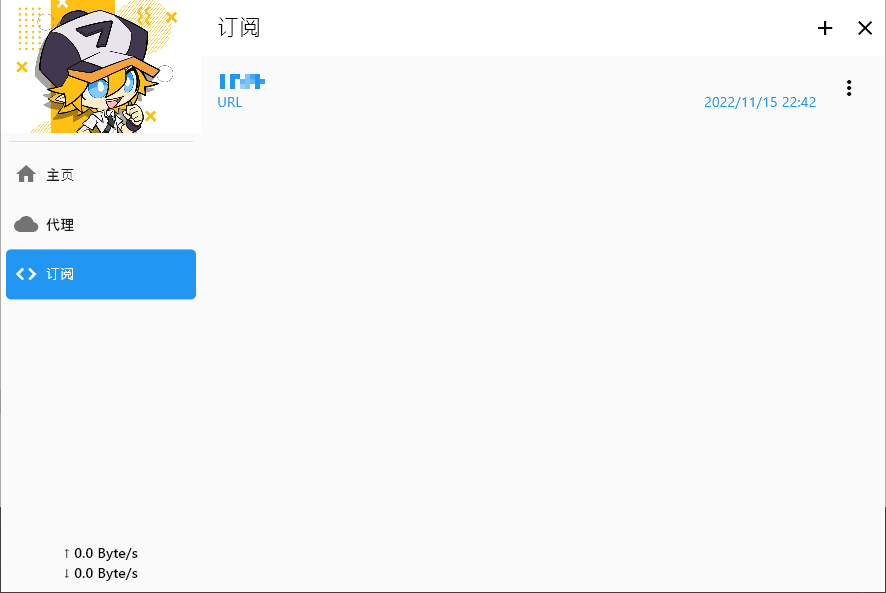
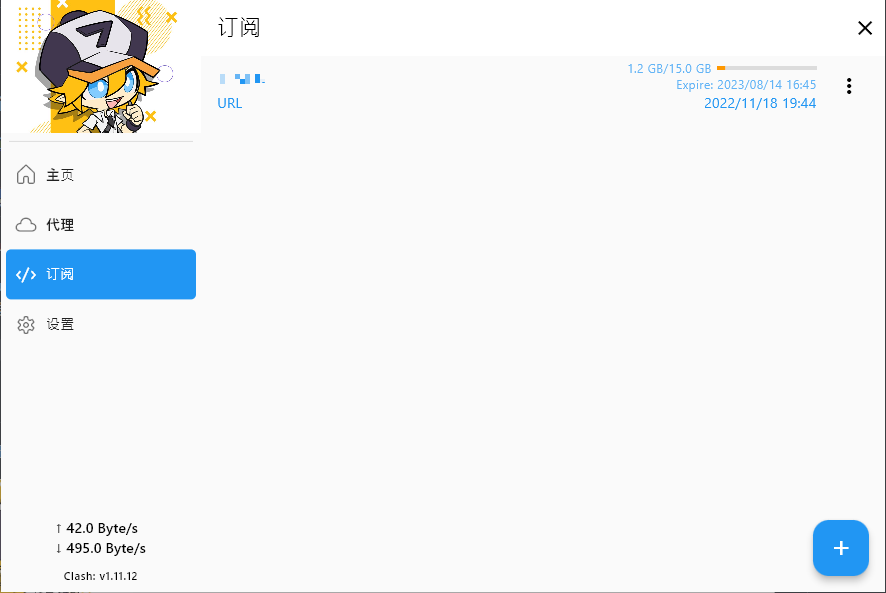
完善下文档

diff --git a/docs/README.md b/docs/README.md
@@ -4,11 +4,12 @@
 
 ### 下载
 
-当前下载页面都只提供了 64 位的安装包[releases](https://github.com/mapleafgo/clash-for-flutter/releases)，由于当前是我自己手动在各个平台打包，所以做不到每个版本都提供的了安装包
+当前下载页面都只提供了 64 位的安装包[releases](https://github.com/mapleafgo/clash-for-flutter/releases)
+，由于当前是我自己手动在各个平台打包，所以做不到每个版本都提供的了安装包
 
 ~~- Linux:~~
 
-  ~~linux 安装包目前打包的为`appimage`的，这种包各个发行版都能直接使用~~
+~~linux 安装包目前打包的为`appimage`的，这种包各个发行版都能直接使用~~
 
 - Windows:
 
@@ -16,7 +17,7 @@
 
 ~~- MacOS:~~
 
-  ~~macos 提供的是`dmg`包~~
+~~macos 提供的是`dmg`包~~
 
 ### 开始使用
 
@@ -26,9 +27,10 @@
 
   订阅页可以说是一切的源头，因为所有的代理节点地址都得通过订阅获取。
 
-  ![profile](./images/profile_page.png)
+  ![profile_page](./images/profile_page.png)
 
-  这是已有订阅的界面，**在没有订阅或未选择订阅时是无法开启代理的**，添加订阅只需点击右下角的`+`按钮。在弹出的窗口中输入订阅地址(当前仅支持联网订阅)
+  这是已有订阅的界面，**在没有订阅或未选择订阅时是无法开启代理的**，添加订阅只需点击右下角的`+`
+  按钮。在弹出的窗口中输入订阅地址或选择本地文件
 
   > 需要说明的是，当前**暂时不未支持自动更新订阅**，需手动在此页更新订阅
 
@@ -42,10 +44,49 @@
 
 - #### 切换代理节点
 
-  **在开启代理后此页才会有数据**
-
-  ![profile](./images/proxy_page.png)
+  ![proxy_page](./images/proxy_page.png)
 
   此页就是最常用的页面了，经常使用的 **切换节点、测延迟(右下角按钮)** 都在此页。
 
-  可能很多人对页面头的几个列表有疑问，这个的话，是订阅配置带过来的。是 Clash 的代理组，它是与规则搭配使用，可以做到对每个 IP、每个地址进行代理配置，具体可查看[Clash 的文档](https://github.com/Dreamacro/clash/wiki/configuration#proxy-groups)。这个功能我们软件当前不负责维护，只提供基本的节点切换
+  可能很多人对页面头的几个列表有疑问，这个的话，是订阅配置带过来的。是 Clash 的代理组，它是与规则搭配使用，可以做到对每个
+  IP、每个地址进行代理配置，具体可查看[Clash 的文档](https://github.com/Dreamacro/clash/wiki/configuration#proxy-groups)
+  。这个功能我们软件当前不负责维护，只提供基本的节点切换
+
+- #### 设置
+
+  ![settings_page](./images/settings_page.png)
+
+  设置页主要提供切换端口、和几个 Clash 的设置，后期可能会加入软件的一些功能
+
+  - 代理端口
+  
+    对于代理端口，其它都默认为 0 就可以(设置为 0 表示不开启)，只需要注意 Mixed。Mixed 是一个复合代理端口，它一个就可以转发 http/https/socks 的所有业务
+  
+    至于 Redir 和 Tproxy 的代理，目前我没用到过，都是默认为 0 的状态，这里就引入 Clash 官方的话来解释这两个吧
+    ```yaml
+    # Transparent proxy server port for Linux and macOS (Redirect TCP and TProxy UDP)
+    redir-port: 7892
+    
+    # Transparent proxy server port for Linux (TProxy TCP and TProxy UDP)
+    tproxy-port: 7893
+    ```
+
+  - 允许局域网访问
+
+    这个可以让服务暴露在局域网中，局域网中的其它设备可以接入当前的代理
+
+  - IPv6
+
+    开启 IPv6 的支持
+
+  ```yaml
+  # 代理模式
+  # rule: rule-based packet routing
+  # global: all packets will be forwarded to a single endpoint
+  # direct: directly forward the packets to the Internet
+  mode: rule
+  
+  # 输出日志等级
+  # info / warning / error / debug / silent
+  log-level: info
+  ```

diff --git a/README.md b/README.md
@@ -6,11 +6,11 @@
 
 ## 开发说明
 
-- Linux
+~~- Linux~~
 
-  linux 上开发除必要安装的 `Go`、`Hover`、`Flutter`等外，还需要安装`gtk3`和`libappindicator3`。对于 Debian 系的发行版可执行下面的命令：
+  ~~linux 上开发除必要安装的 `Go`、`Hover`、`Flutter`等外，还需要安装`gtk3`和`libappindicator3`。对于 Debian 系的发行版可执行下面的命令：~~
 
-  > `sudo apt-get install gcc libgtk-3-dev libappindicator3-dev`
+  ~~> `sudo apt-get install gcc libgtk-3-dev libappindicator3-dev`~~
 
 ## 界面
 
@@ -20,9 +20,18 @@
 
 ![代理页](./docs/images/proxy_page.png)
 
+![订阅页](./docs/images/profile_page.png)
+
+![设置页](./docs/images/settings_page.png)
+
 ## 主要技术
 
 - [Clash](https://github.com/Dreamacro/clash)
 - [Flutter](https://flutter.dev)
-- [Go-Flutter](https://github.com/go-flutter-desktop/go-flutter)
-- [systray](https://github.com/getlantern/systray)
+- [tray_manager](https://github.com/leanflutter/tray_manager)
+- [window_manager](https://github.com/leanflutter/window_manager)
+- [proxy_manager](https://github.com/Kingtous/proxy_manager)
+- [flutter_modular](https://github.com/Flutterando/modular)
+
+## 写在后面
+自 1.0.0 版本开始，本软件全面从之前的 Go-Flutter 迁移到了官方 Flutter 版本。迁移中部分参考了 [Fclash](https://github.com/Kingtous/Fclash) 非常感谢！
